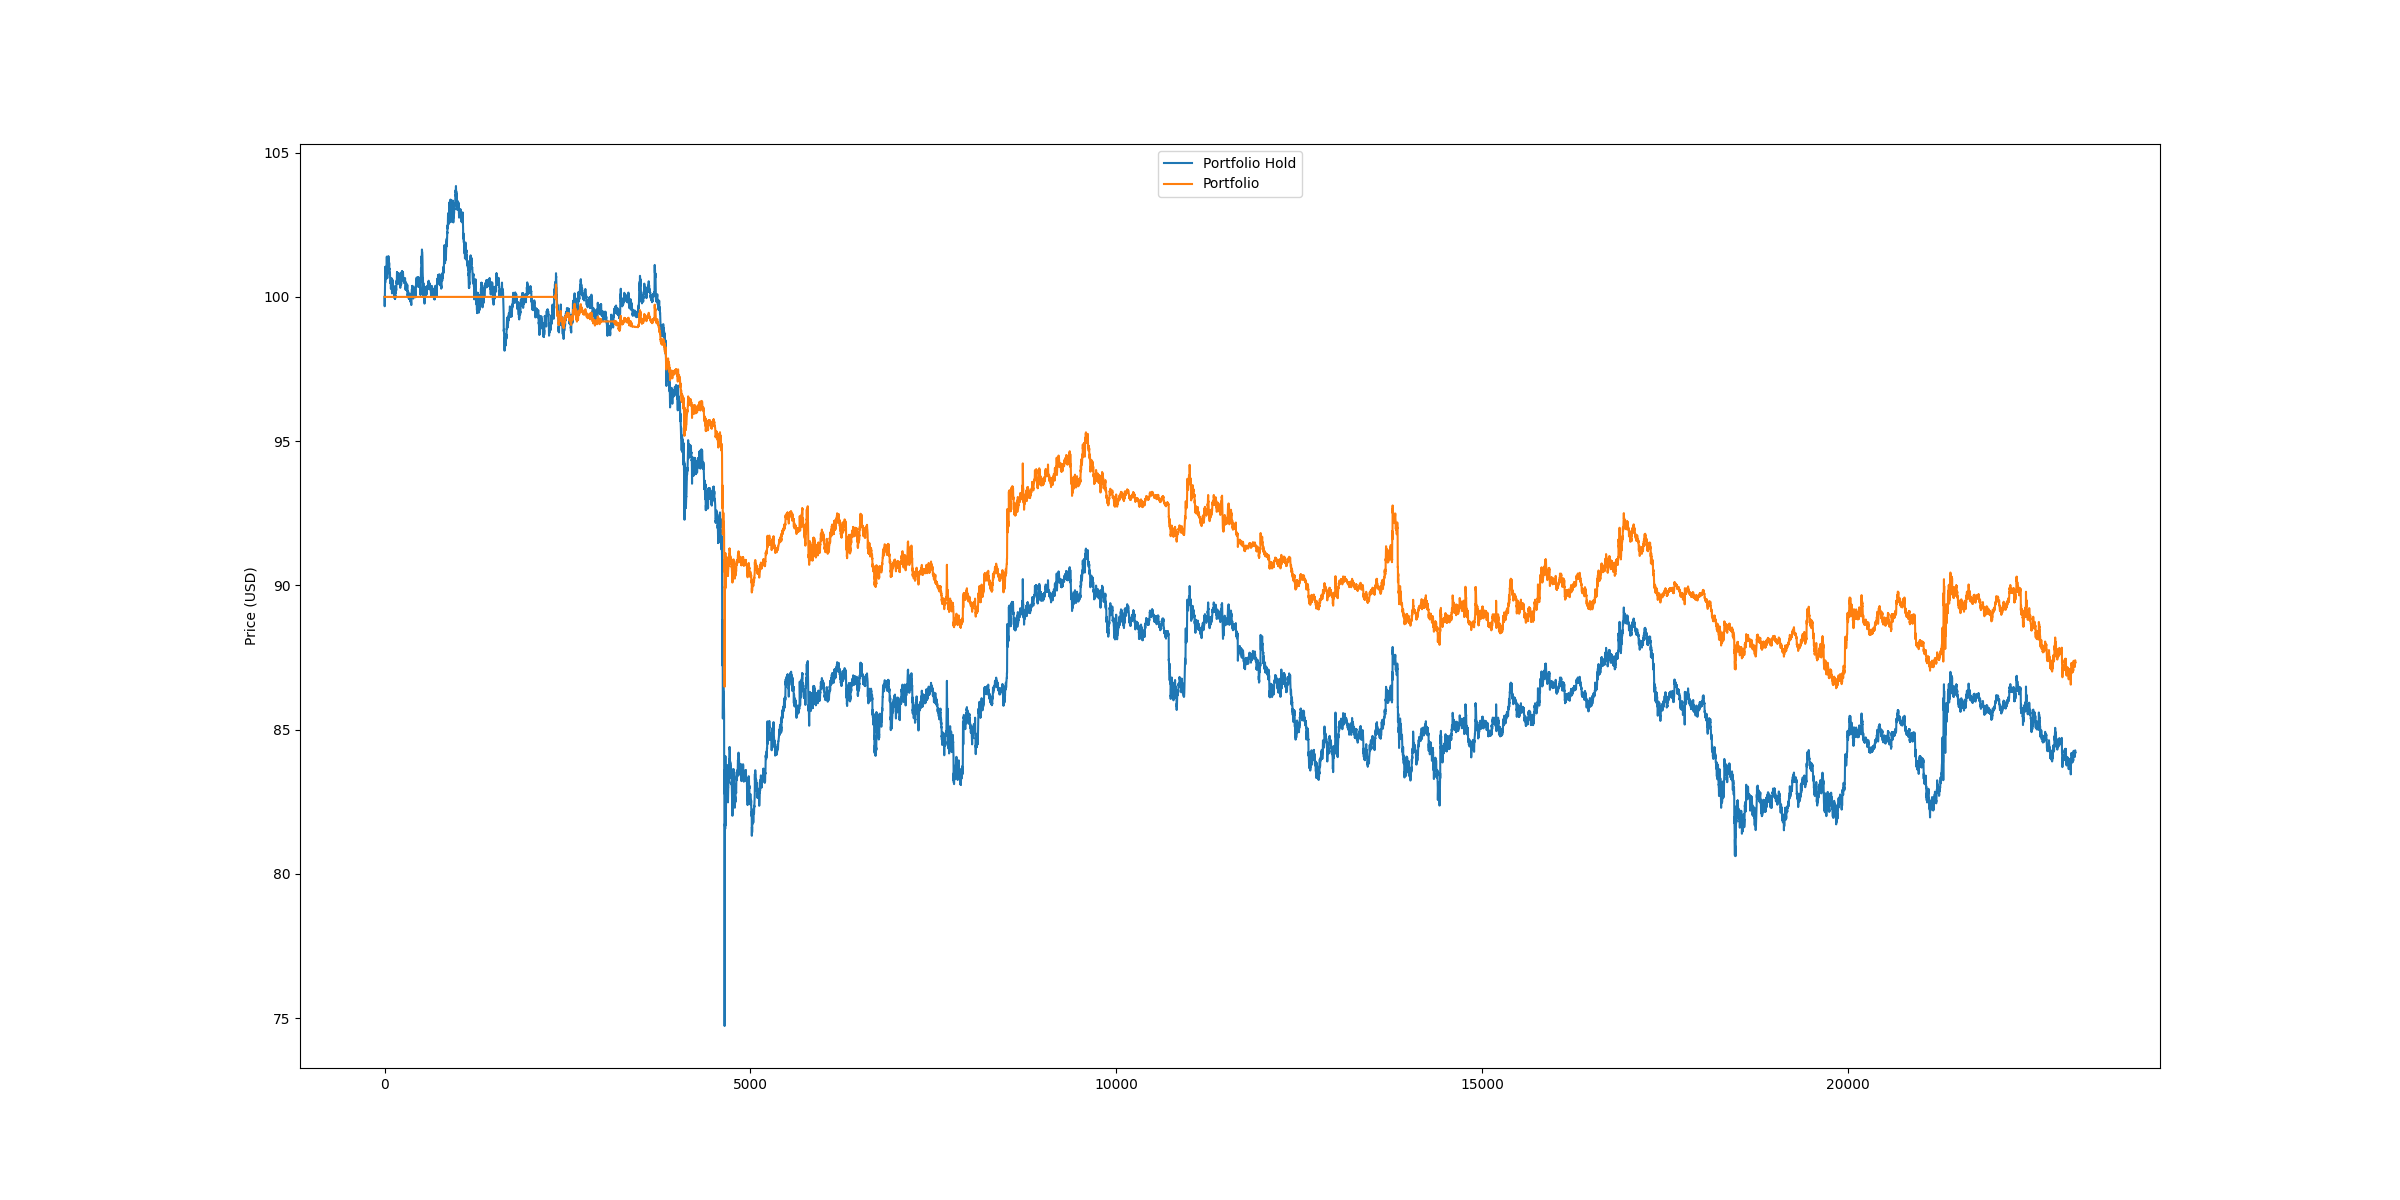
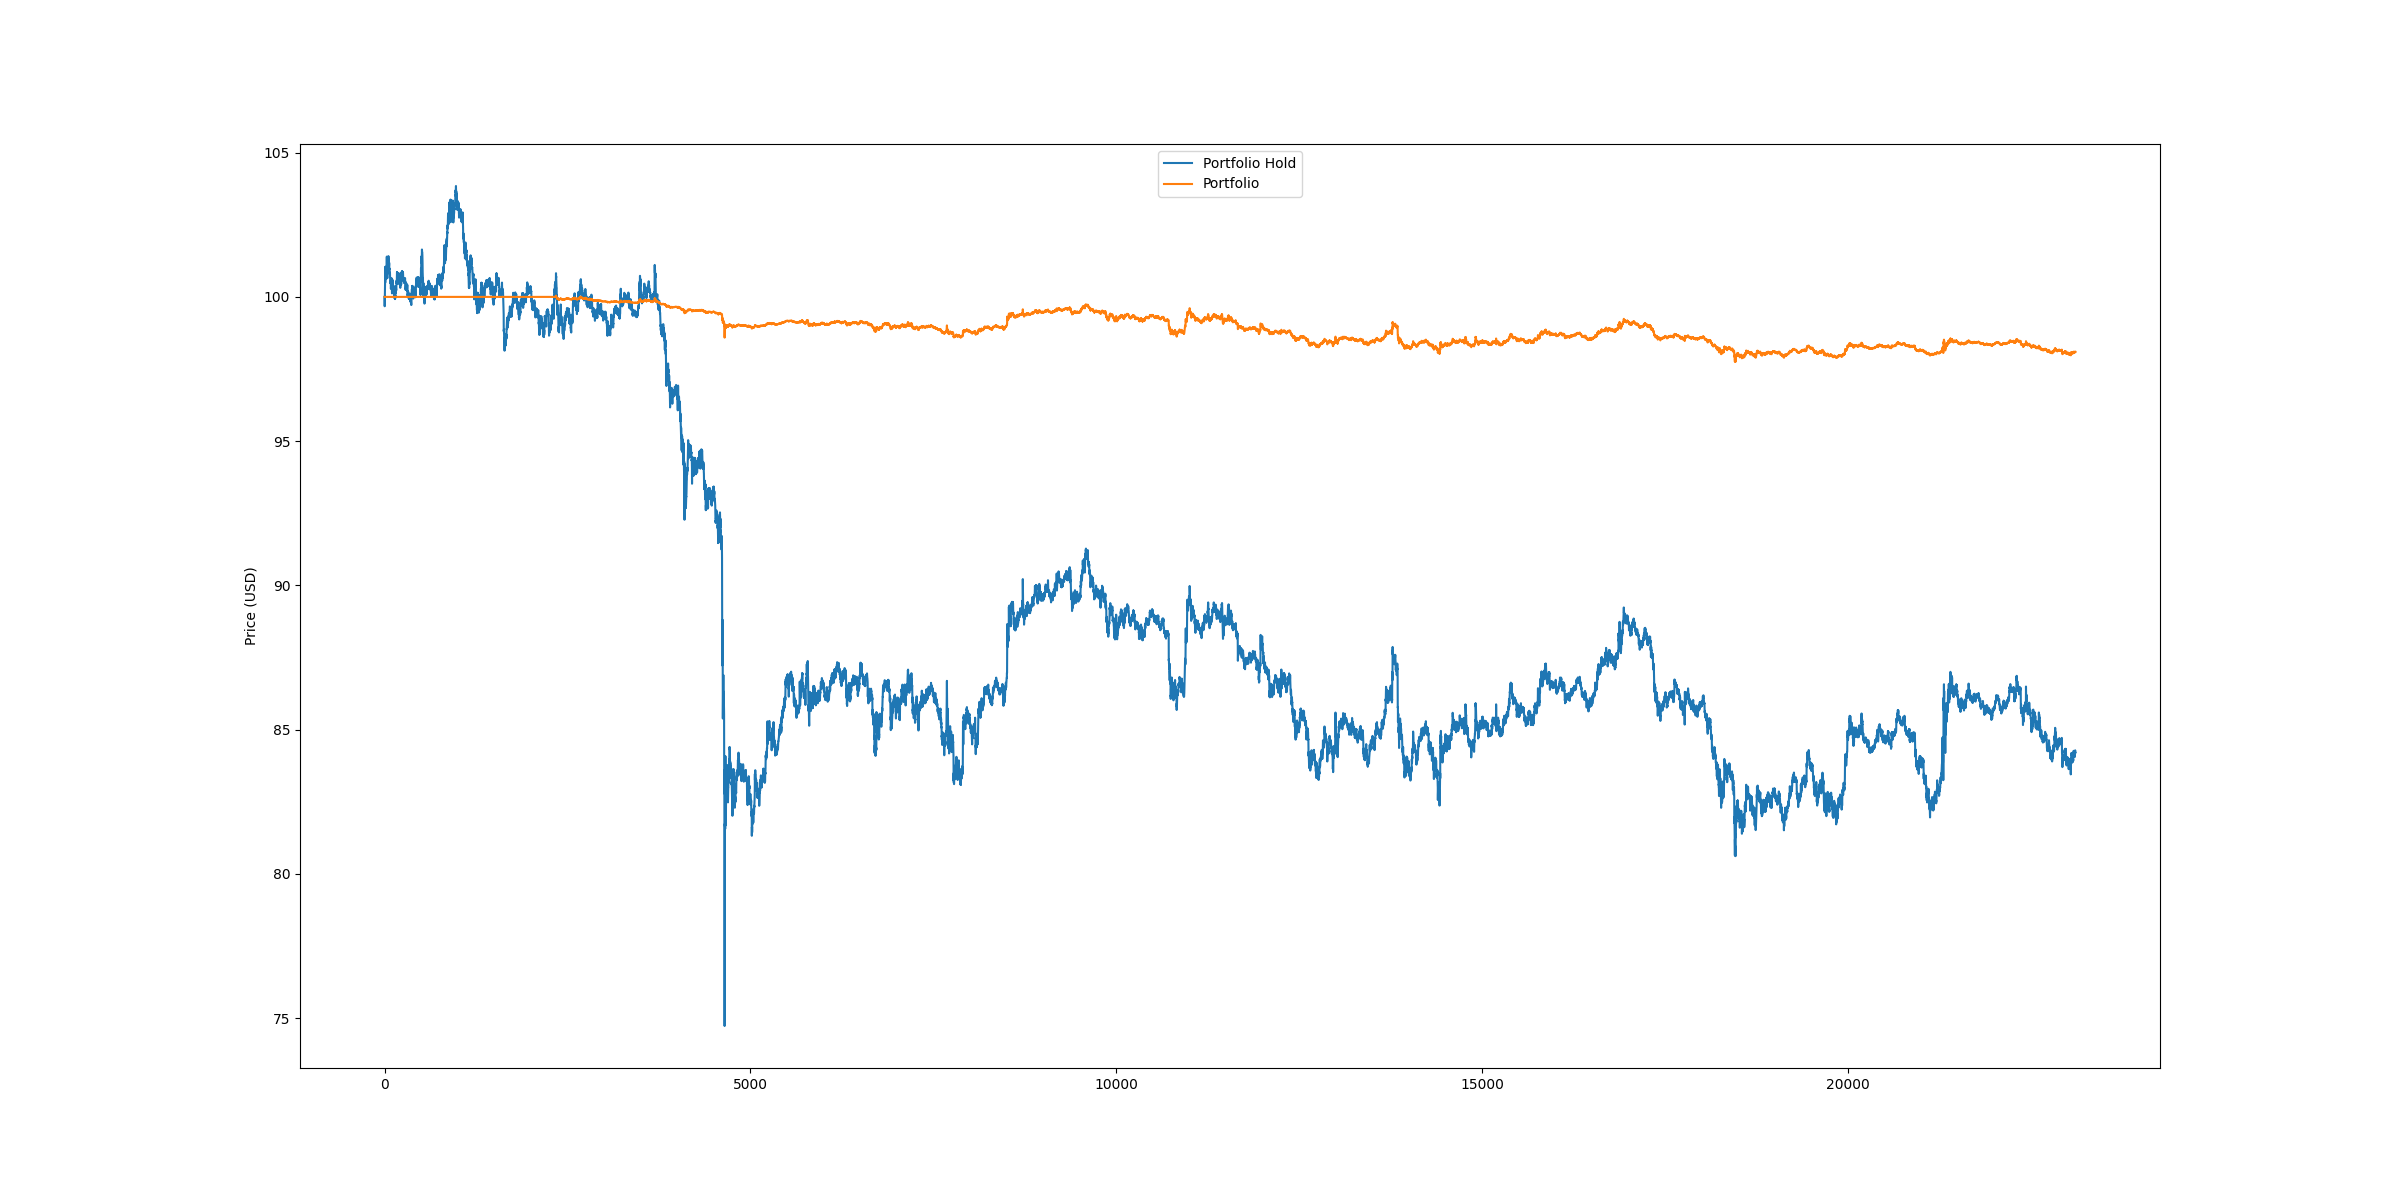
handle actions inside portfolio object

diff --git a/src/simple_mva.py b/src/simple_mva.py
@@ -23,7 +23,7 @@ class SimpleMVA(Strategy):
         self.sum += price
 
         if len(self.window) < self.period:
-            return Action('HOLD', port.get_coin(), None)
+            return Action(signal='HOLD', currency=port.get_coin(), quantity=None, price=price)
 
         if len(self.window) > self.period:
             self.sum -= self.window.popleft()
@@ -35,23 +35,25 @@ class SimpleMVA(Strategy):
 
         # upward trend, price crosses above mva
         if prev_price and prev_price < mva and price > mva:
-            return Action('BUY',
-                          port.get_coin(),
-                          self.equity_per_trade *
+            return Action(signal='BUY',
+                          currency=port.get_coin(),
+                          quantity=self.equity_per_trade *
                           port.get_value_in_coin(coin_price=price),
+                          price=price,
                           stop_loss=0.03,
                           take_profit=0.06)
 
         # downward trend, price crosses below mva
         if prev_price and prev_price > mva and price < mva:
-            return Action('SELL',
-                          port.get_coin(),
-                          self.equity_per_trade *
+            return Action(signal='SELL',
+                          currency=port.get_coin(),
+                          quantity=self.equity_per_trade *
                           port.get_value_in_coin(coin_price=price),
+                          price=price,
                           stop_loss=0.03,
                           take_profit=0.06)
 
-        return Action('HOLD', port.get_coin(), None)
+        return Action(signal='HOLD', currency=port.get_coin(), quantity=None, price=price)
 
     def get_period(self):
         return self.period

diff --git a/src/backtest.py b/src/backtest.py
@@ -61,18 +61,7 @@ def run_backtest(strat, port, df):
         mvas.append(mva)
 
         action = strat.take_action(price=float(price), port=port)
-
-        if action.signal == 'BUY' and port.get_fiat_quantity() >= action.quantity * price:
-            port.set_fiat_quantity(
-                port.get_fiat_quantity() - (action.quantity * price))
-            port.set_coin_quantity(
-                port.get_coin_quantity() + action.quantity)
-        elif action.signal == 'SELL' and port.get_coin_quantity() >= action.quantity:
-            port.set_fiat_quantity(
-                port.get_fiat_quantity() + (action.quantity * price))
-            port.set_coin_quantity(
-                port.get_coin_quantity() - action.quantity
-            )
+        port.handle_action(action)
 
         portfolio.append(port.get_value_in_fiat(coin_price=price))
         portfolio_hold.append(start_coin * price)

diff --git a/src/portfolio.py b/src/portfolio.py
@@ -35,3 +35,16 @@ class Portfolio:
 
     def set_fiat_quantity(self, new_fiat_quantity):
         self.fiat_quantity = new_fiat_quantity
+
+    def handle_action(self, action):
+        if action.signal == 'BUY' and self.get_fiat_quantity() >= action.quantity * action.price:
+            self.set_fiat_quantity(
+                self.get_fiat_quantity() - (action.quantity * action.price))
+            self.set_coin_quantity(
+                self.get_coin_quantity() + action.quantity)
+        elif action.signal == 'SELL' and self.get_coin_quantity() >= action.quantity:
+            self.set_fiat_quantity(
+                self.get_fiat_quantity() + (action.quantity * action.price))
+            self.set_coin_quantity(
+                self.get_coin_quantity() - action.quantity
+            )

diff --git a/src/action.py b/src/action.py
@@ -1,9 +1,10 @@
 class Action:
 
-    def __init__(self, type, currency, quantity, stop_loss=None, take_profit=None):
-        self.type = type
+    def __init__(self, signal, currency, quantity, price, stop_loss=None, take_profit=None):
+        self.signal = signal
         self.currency = currency
         self.quantity = quantity
+        self.price = price
         self.stoploss = stop_loss
         self.take_profit = take_profit
 
